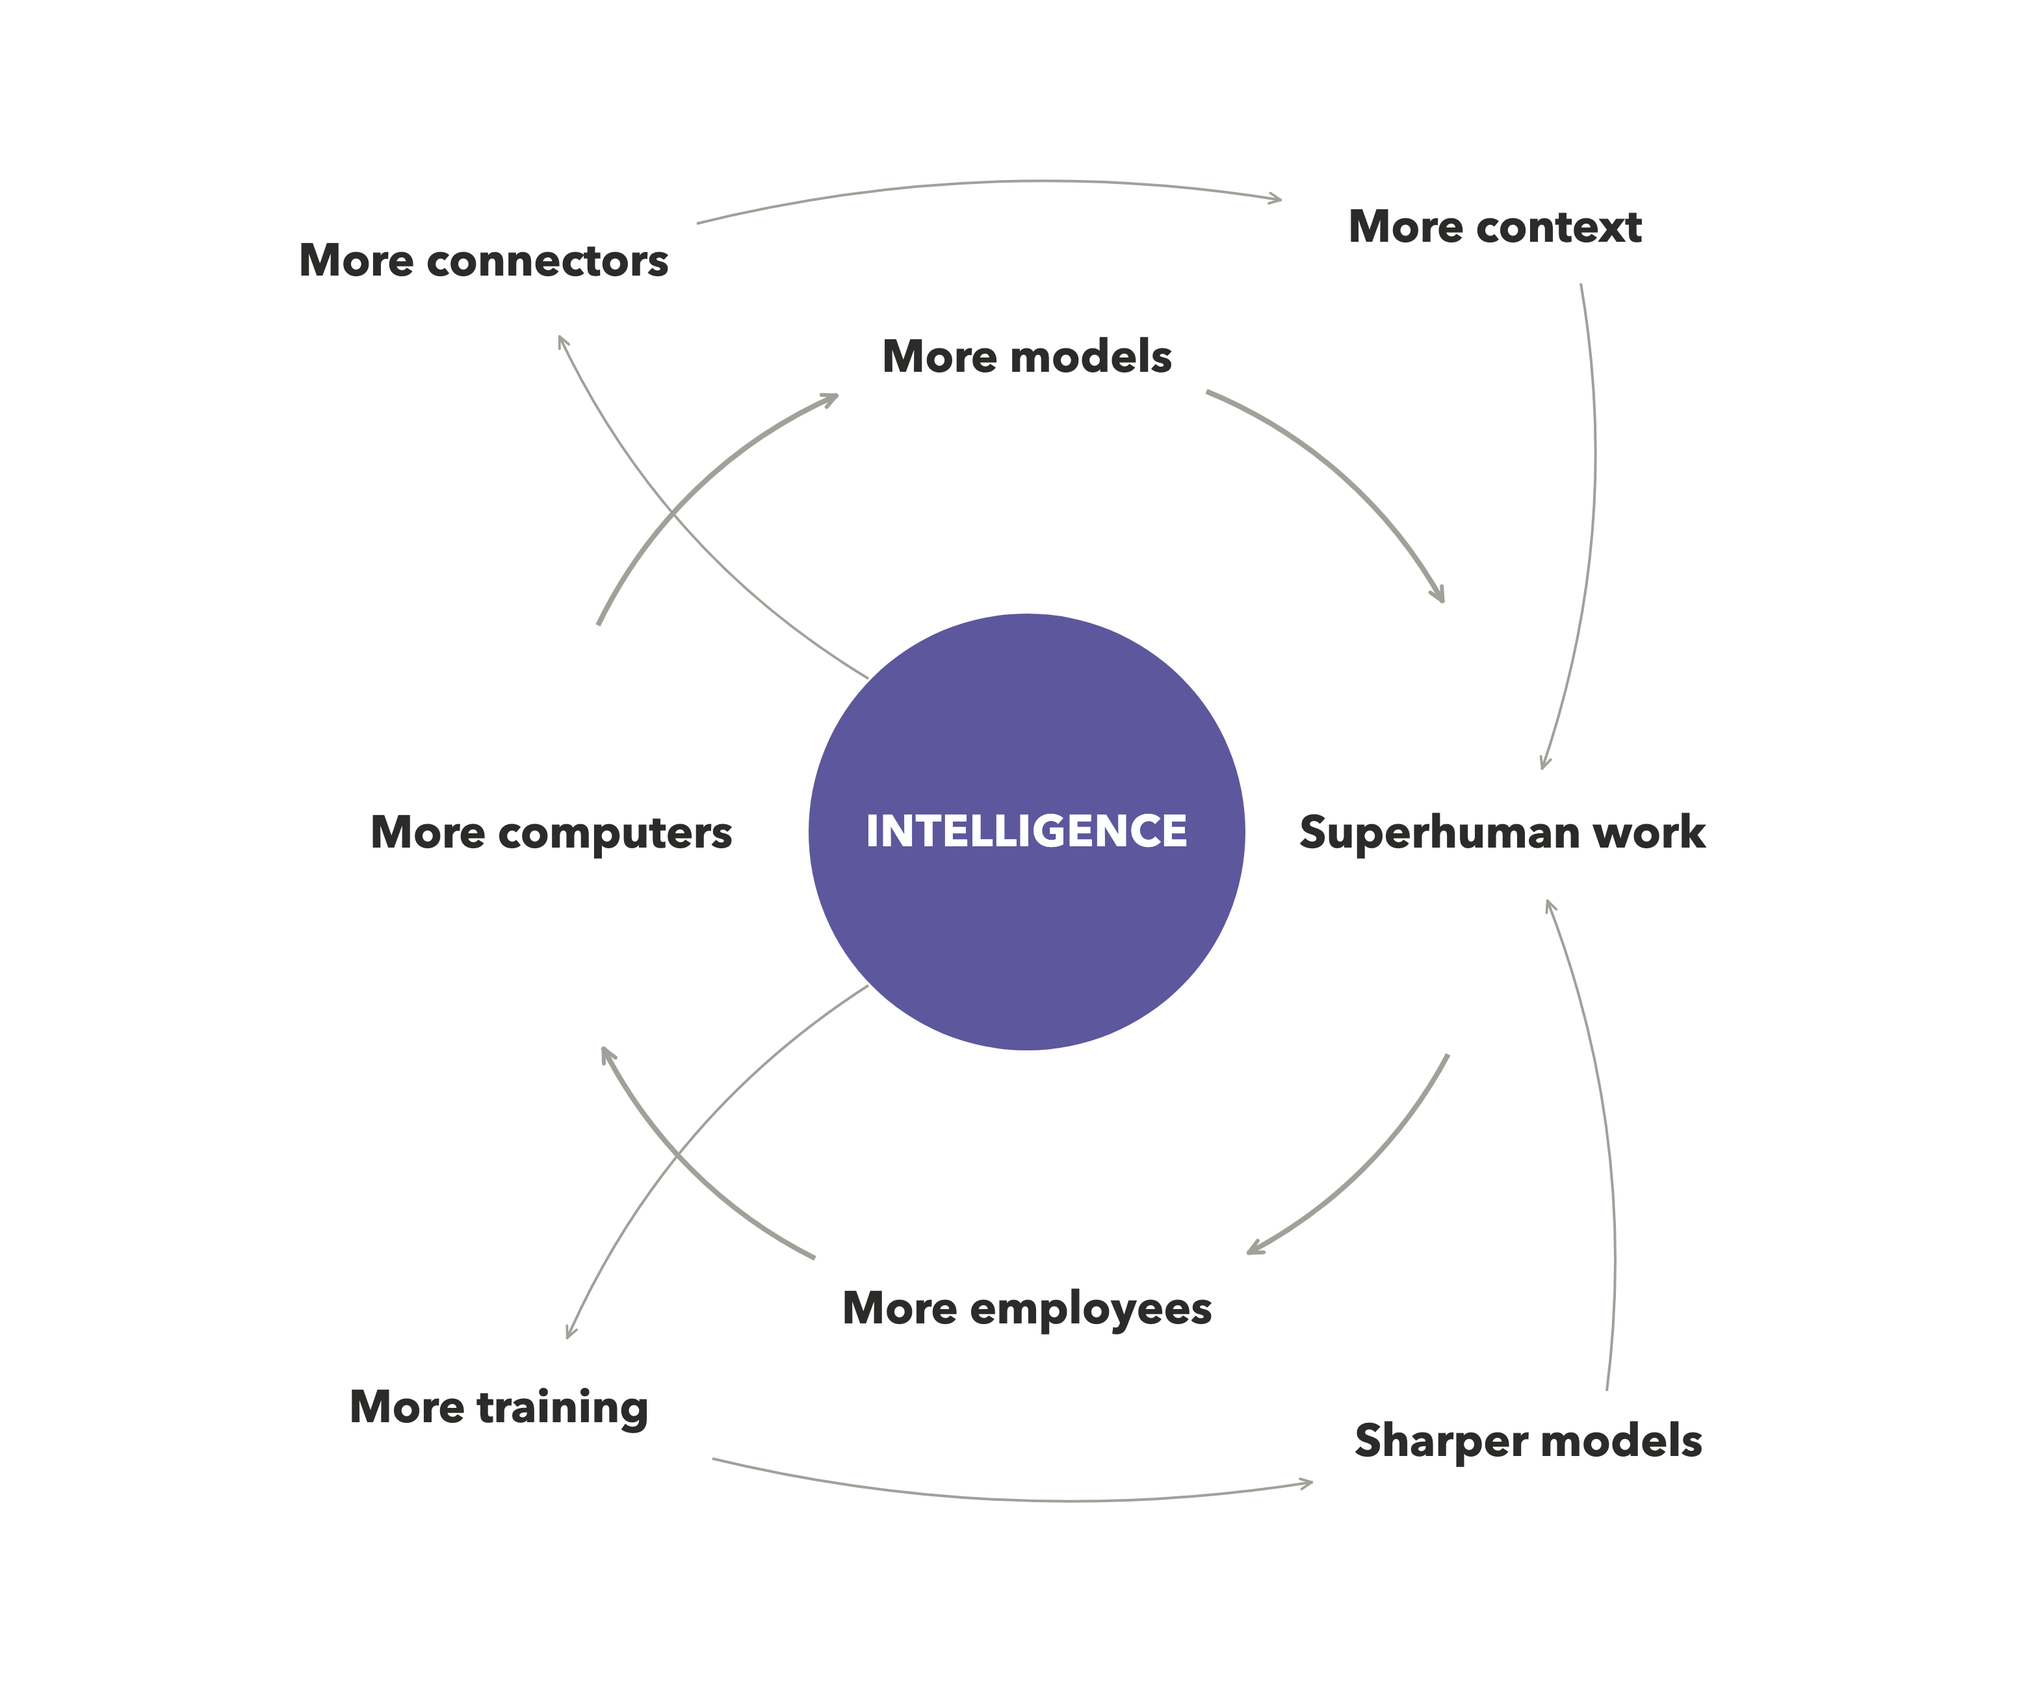
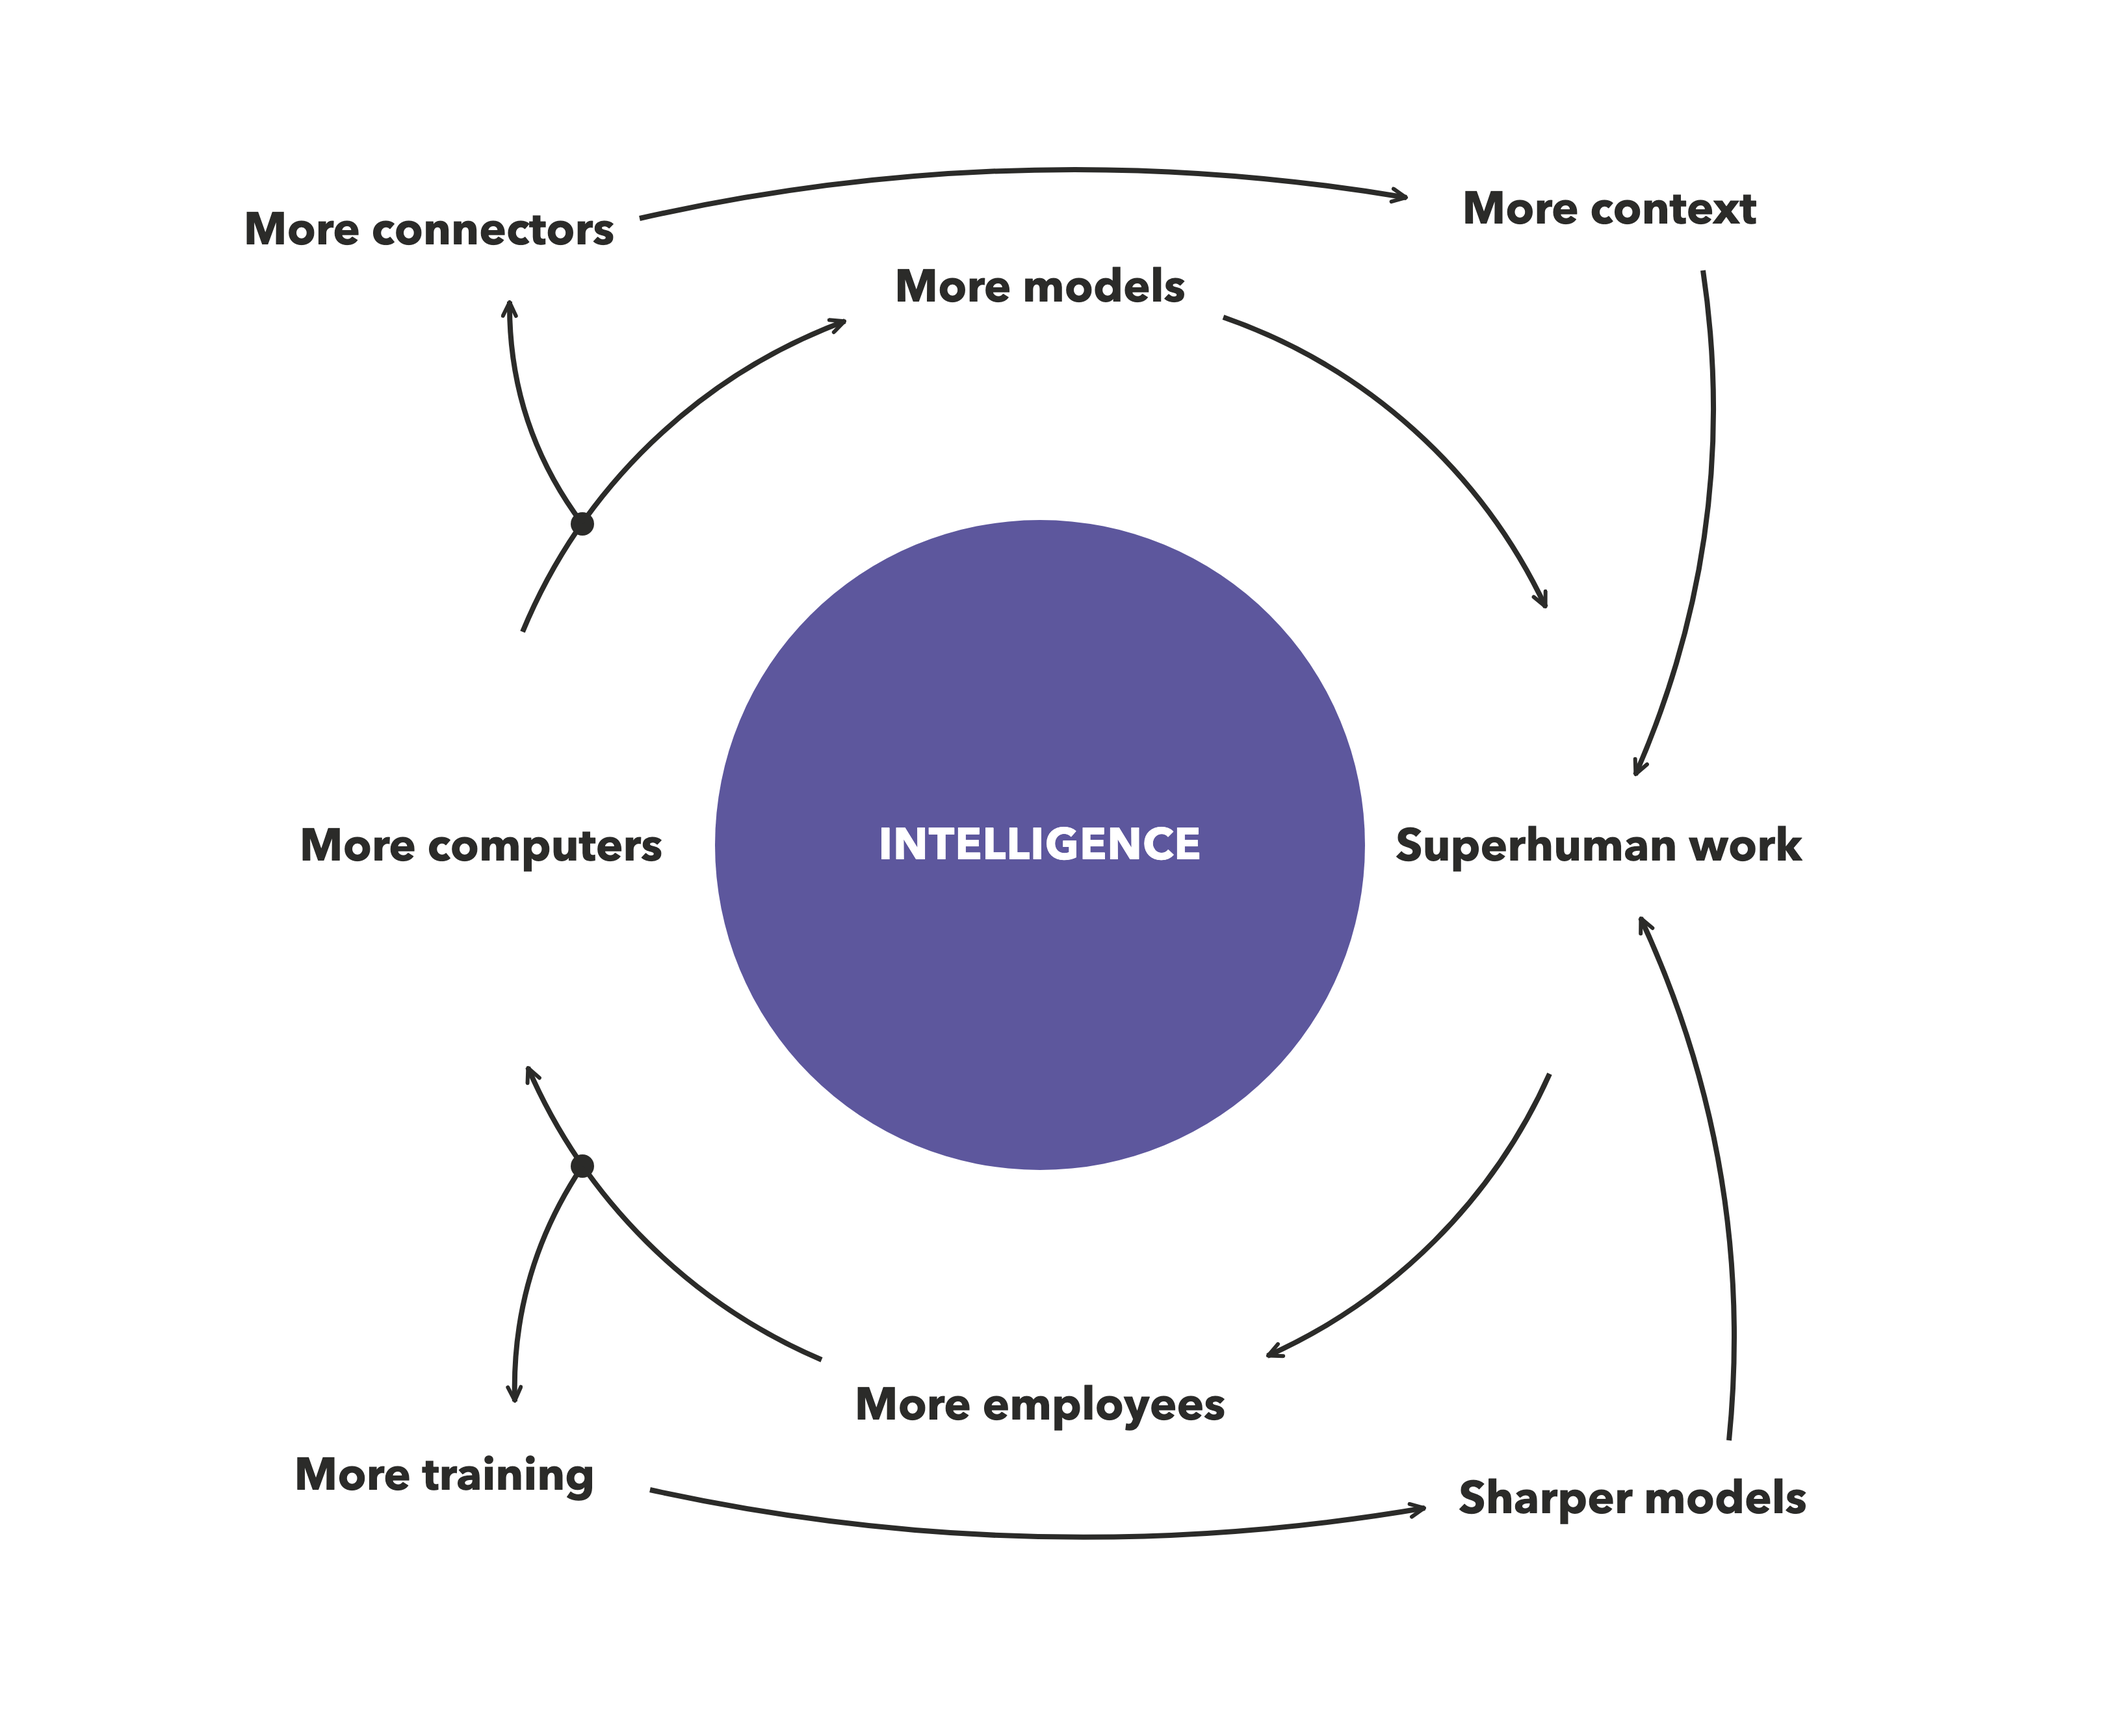
fix(docs): the second loops fork off the wheel instead of crossing it
The lines were the problem, not the structure. Four differences from the
reference, all of them structural:

The second loop left the hub and met the rim in open space, which reads as two
lines colliding. On the reference both lines leave one marked point on the
wheel and diverge — a fork, not a crossing. Ours now forks off the rim at a dot,
so nothing crosses anything.

The centre was small against the ring, so the wheel read as a hoop with a bead
in it. The reference's circle is a little over half the ring's diameter, and at
that proportion it reads as a disc with words around it, which is the thing
being drawn.

The lines were 2px warm grey — the weight this system uses for annotation. This
figure is the argument, not an annotation. Near-black at rim weight.

And the arcs were shallow. The reference's second loop sweeps well outside the
wheel and comes back down steeply; a lazy curve reads as a stray line.

diff --git a/docs/build_figures.py b/docs/build_figures.py
@@ -217,42 +217,48 @@ f.label((mcx + tcx) / 2, 470, "the new adapter, to every machine, every two step
 f.write(f"{OUT}/train-architecture.svg")
 
 # -------------------------------------------------------------- fig-flywheel
-# Amazon's flywheel, station for station, because the mapping is exact and the
-# thing that makes theirs work is that it is SMALL: one ring, one arc that leaves
-# the hub and rejoins the ring, one filled centre, and nothing else. No legend,
-# no colour coding — the structure carries the argument, so anything added to
-# help the reader is a thing the reader has to read.
+# Amazon's flywheel, station for station. Four things make theirs read the way it
+# does, and all four are structural rather than decorative:
 #
-#   sellers -> more computers      selection -> more models
-#   traffic -> more employees      customer experience -> the end goal
-#   growth  -> intelligence
-#   lower cost structure -> more connectors   lower prices -> more context
-f = Fig(1560, 1300)
-CX, CY, R = 790, 640, 366
+#   1. the second loop FORKS off the wheel at a marked point — it does not cross
+#      it. Two lines leaving one dot read as a branch; two lines meeting in open
+#      space read as a mistake, which is what the first attempt looked like.
+#   2. the centre is large against the ring — a little over half its diameter —
+#      so the wheel reads as a disc with words round it, not a hoop.
+#   3. the lines are near-black and heavy. Thin grey says "annotation"; this is
+#      the argument.
+#   4. nothing else is on the page. No legend, no colour coding.
+#
+#   growth -> intelligence            sellers -> more computers
+#   selection -> more models          traffic -> more employees
+#   customer experience -> superhuman work
+#   lower cost structure -> more connectors    lower prices -> more context
+f = Fig(1620, 1330)
+CX, CY, R = 800, 650, 430
+INK = LABEL_TEXT
 
 f.wheel(CX, CY, R, [
     ("More models", LABEL_TEXT),
     ("Superhuman work", LABEL_TEXT),
     ("More employees", LABEL_TEXT),
     ("More computers", LABEL_TEXT),
-], hub_r=168, hub_lines=("INTELLIGENCE",), fs=CORE_FS)
+], hub_r=250, hub_lines=("INTELLIGENCE",), fs=CORE_FS, arc=INK)
 
-# The second loop leaves the hub, runs over the top, and comes back down into the
-# station it improves — the same path Amazon's cost/price loop takes.
-f.block(1150, 174, ("More context",), LABEL_TEXT, CORE_FS)
-f.block(372, 200, ("More connectors",), LABEL_TEXT, CORE_FS)
-f.bow(668, 522, 430, 258, lift=-54)
-f.bow(536, 172, 986, 154, lift=-46)
-f.bow(1216, 218, 1186, 592, lift=-48)
+# Both second loops fork off the rim rather than leaving the hub, so neither one
+# crosses the wheel. Each lands back on the station it improves.
+f.dot(448, 403)
+f.block(330, 176, ("More connectors",), LABEL_TEXT, CORE_FS)
+f.bow(448, 403, 392, 232, lift=-30, colour=INK, width=RIM)
+f.bow(492, 168, 1082, 152, lift=-58, colour=INK, width=RIM)
+f.bow(1310, 208, 1258, 596, lift=-56, colour=INK, width=RIM)
+f.block(1238, 160, ("More context",), LABEL_TEXT, CORE_FS)
 
-# The third loop is the same shape underneath: training makes the models sharper
-# at the jobs you actually run, and that lands in the same place. Both arcs come
-# home to the work, because that is what the whole thing is for.
-f.block(384, 1082, ("More training",), LABEL_TEXT, CORE_FS)
-f.block(1176, 1108, ("Sharper models",), LABEL_TEXT, CORE_FS)
-f.bow(668, 758, 436, 1030, lift=54)
-f.bow(548, 1122, 1010, 1140, lift=46)
-f.bow(1236, 1070, 1190, 692, lift=48)
+f.dot(448, 897)
+f.block(342, 1134, ("More training",), LABEL_TEXT, CORE_FS)
+f.bow(448, 897, 396, 1078, lift=30, colour=INK, width=RIM)
+f.bow(500, 1146, 1096, 1160, lift=58, colour=INK, width=RIM)
+f.bow(1330, 1108, 1262, 706, lift=56, colour=INK, width=RIM)
+f.block(1256, 1152, ("Sharper models",), LABEL_TEXT, CORE_FS)
 
 f.write(f"{OUT}/fig-flywheel.svg")
 

diff --git a/docs/figs.py b/docs/figs.py
@@ -28,7 +28,8 @@ FONT = "Avenir Next, Nunito, Segoe UI, Helvetica, Arial, sans-serif"
 
 # An SVG marker carries its own colour, so a coloured arc drawn with the grey
 # arrowhead ends in a grey tip. One marker pair per colour the drawings use.
-MARKERS = {ARROW: "a", GREEN_TEXT: "g", PURPLE_TEXT: "p", CORAL_TEXT: "c"}
+MARKERS = {ARROW: "a", GREEN_TEXT: "g", PURPLE_TEXT: "p", CORAL_TEXT: "c",
+           LABEL_TEXT: "k"}
 
 
 def head(colour=None, heavy=False):
@@ -266,6 +267,12 @@ class Fig:
             f'stroke="{colour or ARROW}" stroke-width="{width or STROKE}"{dash} '
             f'marker-end="url(#{head(colour, heavy=(width or STROKE) >= RIM)})"/>')
         self._saw(max(x1, x2), max(y1, y2))
+
+    def dot(self, x, y, r=9, colour=None):
+        """Where a second loop leaves the wheel. The reference marks this point, and
+        marking it is what makes a fork read as a fork instead of a collision."""
+        self.parts.append(
+            f'<circle cx="{x:.0f}" cy="{y:.0f}" r="{r}" fill="{colour or LABEL_TEXT}"/>')
 
     def key(self, x, y, items, title=None):
         """The legend. Each entry names one advantage and the colour that carries it."""

diff --git a/train/README.md b/train/README.md
@@ -270,7 +270,7 @@ curl $GRID/v1/feedback -d '{"request_id":"…","verdict":"edited","final_text":"
 ## The flywheel
 
 <p align="center">
-<img src="../docs/fig-flywheel.png" width="820" alt="A flywheel around a filled hub reading INTELLIGENCE. The ring turns clockwise: more computers, more models, superhuman work, more employees, and back to more computers. Two further arcs leave the hub and rejoin the ring at superhuman work — over the top, more connectors then more context; underneath, more training then sharper models.">
+<img src="../docs/fig-flywheel.png" width="820" alt="A flywheel around a filled hub reading INTELLIGENCE. The ring turns clockwise: more computers, more models, superhuman work, more employees, and back to more computers. Two further arcs fork off the rim at marked points and rejoin the ring at superhuman work — over the top, more connectors then more context; underneath, more training then sharper models.">
 </p>
 
 **The ring is the whole business in four words.** More employees arrive, and each arrives with a
